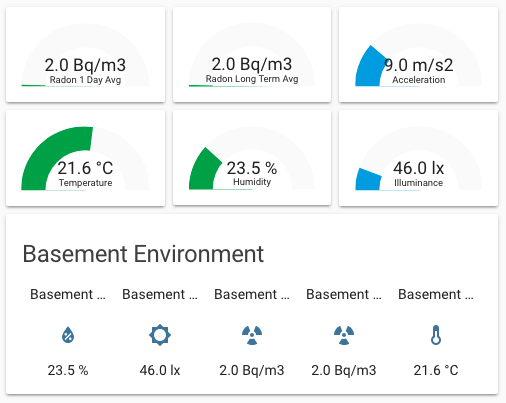
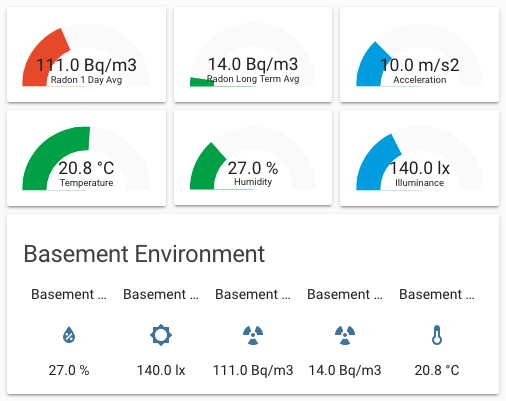
Resolves #10
- Removed unessessary while loop and increased SCAN_INTERVAL from 60 seconds to 300

- Updated screen shots and doc

diff --git a/custom_components/airthings_wave/sensor.py b/custom_components/airthings_wave/sensor.py
@@ -40,7 +40,7 @@ _LOGGER = logging.getLogger(__name__)
 DEFAULT_NAME = 'Airthings Wave'
 CONNECT_LOCK = threading.Lock()
 CONNECT_TIMEOUT = 30
-SCAN_INTERVAL = timedelta(seconds=60)
+SCAN_INTERVAL = timedelta(seconds=300)
 
 ATTR_DEVICE_DATE_TIME = 'device_date_time'
 ATTR_RADON_LEVEL = 'radon_level'
@@ -54,10 +54,25 @@ VOLUME_PICOCURIE = 'pCi/L'
 
 BQ_TO_PCI_MULTIPLIER = 0.037
 
-VERY_LOW = 'very low'
-LOW = 'low'
-MODERATE = 'moderate'
-HIGH = 'high'
+"""
+0 - 49 Bq/m3  (0 - 1.3 pCi/L):
+No action necessary.
+
+50 - 99 Bq/m3 (1.4 - 2.6 pCi/L):
+Experiment with ventilation and sealing cracks to reduce levels.
+
+100 Bq/m3 - 299 Bq/m3 (2.7 - 8 pCi/L):
+Keep measuring. If levels are maintained for more than 3 months,
+contact a professional radon mitigator.
+
+300 Bq/m3 (8.1 pCi/L) and up:
+Keep measuring. If levels are maintained for more than 1 month,
+contact a professional radon mitigator.
+"""
+VERY_LOW = [0, 49, 'very low']
+LOW = [50, 99, 'low']
+MODERATE = [100, 299, 'moderate']
+HIGH = [300, None, 'high']
 
 CHAR_UUID_DATETIME = UUID(0x2A08)
 CHAR_UUID_TEMPERATURE = UUID(0x2A6E)
@@ -235,31 +250,15 @@ class AirthingsRadon(Entity):
     def device_state_attributes(self):
         """Return the state attributes of the sensor."""
 
-        """
-        0 - 49 Bq/m3  (0 - 1.3 pCi/L):
-        No action necessary.
-
-        49 - 99 Bq/m3 (1.4 - 2.6 pCi/L):
-        Experiment with ventilation and sealing cracks to reduce levels.
-
-        100 Bq/m3 - 299 Bq/m3 (2.7 - 8 pCi/L):
-        Keep measuring. If levels are maintained for more than 3 months,
-        contact a professional radon mitigator.
-
-        300 Bq/m3 (8.1 pCi/L) and up:
-        Keep measuring. If levels are maintained for more than 1 month,
-        contact a professional radon mitigator.
-        """
-
         try:
-            if 0 <= float(self.mon.data[self._subclass]) <= 49:
-                self.radon_level = VERY_LOW
-            elif 50 <= float(self.mon.data[self._subclass]) <= 99:
-                self.radon_level = LOW
-            elif 100 <= float(self.mon.data[self._subclass]) <= 299:
-                self.radon_level = MODERATE
+            if VERY_LOW[0] <= float(self.mon.data[self._subclass]) <= VERY_LOW[1]:
+                self.radon_level = VERY_LOW[2]
+            elif LOW[0] <= float(self.mon.data[self._subclass]) <= LOW[1]:
+                self.radon_level = LOW[2]
+            elif MODERATE[0] <= float(self.mon.data[self._subclass]) <= MODERATE[1]:
+                self.radon_level = MODERATE[2]
             else:
-                self.radon_level = HIGH
+                self.radon_level = HIGH[2]
         except Exception as ex:
             _LOGGER.warn("Radon level is : got an exception: %s", ex)
             self.radon_level = STATE_UNKNOWN
@@ -361,39 +360,38 @@ class Monitor(threading.Thread):
             BLEError, NotConnectedError, NotificationTimeout)
 
         adapter = pygatt.backends.GATTToolBackend()
-
-        while True:
-            try:
+        try:
+            while self.keep_going:
                 _LOGGER.debug("Connecting to %s", self.name)
+
                 # We need concurrent connect, so lets not reset the device
                 adapter.start(reset_on_start=False)
-                # Seems only one connection can be initiated at a time
-                with CONNECT_LOCK:
-                    device = adapter.connect(self.mac, CONNECT_TIMEOUT)
+                device = adapter.connect(self.mac, CONNECT_TIMEOUT)
 
-                # Magic: writing this makes device happy
-                device.char_write_handle(0x1b, bytearray([255]), False)
-                while self.keep_going:
-                    for s in sensors:
-                        val = struct.unpack(s.format_type,
-                            device.char_read(s.uuid, timeout=CONNECT_TIMEOUT))
-                        _LOGGER.debug("Sensor %s: %s", s.name, val)
-                        if s.name == 'date_time':
-                            val = str(datetime(val[0], val[1], val[2], val[3],
-                                val[4], val[5]).isoformat())
-                            self.data[s.name] = val
-                        elif s.name == 'illuminance_accelerometer':
-                            self.data['illuminance'] = str(val[0] * s.scale)
-                            self.data['accelerometer'] = str(val[1] * s.scale)
-                        else:
-                            self.data[s.name] = str(round(val[0] * s.scale, 1))
+                # Give the adaptor a breather
+                self.event.wait(1)
+                for s in sensors:
+                    val = struct.unpack(s.format_type,
+                        device.char_read(s.uuid, timeout=CONNECT_TIMEOUT))
+                    _LOGGER.debug("Sensor %s: %s", s.name, val)
 
-                    self.event.wait(self.scan_interval.total_seconds())
-                break
-            except (BLEError, NotConnectedError, NotificationTimeout) as ex:
-                _LOGGER.error("Exception: %s ", str(ex))
-            finally:
+                    if s.name == 'date_time':
+                        val = str(datetime(val[0], val[1], val[2], val[3],
+                            val[4], val[5]).isoformat())
+                        self.data[s.name] = val
+                    elif s.name == 'illuminance_accelerometer':
+                        self.data['illuminance'] = str(val[0] * s.scale)
+                        self.data['accelerometer'] = str(val[1] * s.scale)
+                    else:
+                        self.data[s.name] = str(round(val[0] * s.scale, 1))
+
                 adapter.stop()
+                self.event.wait(self.scan_interval.total_seconds())
+
+        except (BLEError, NotConnectedError, NotificationTimeout) as ex:
+            _LOGGER.error("Exception: %s ", str(ex))
+        finally:
+            adapter.stop()
 
     def terminate(self):
         """Signal runner to stop and join thread."""

diff --git a/README.md b/README.md
@@ -56,7 +56,7 @@ sensor:
 
 **scan_interval**
 
-  (string)(Optional) The interval between polls. Defaults to 1 minute
+  (string)(Optional) The interval between polls. Defaults to 300 seconds (5 minutes)
 
 ## Limitations
 
@@ -73,12 +73,11 @@ first.
 
 ## Known Issues
 
+* Note yet compatible with Airthings Wave Plus
+
 * Values only appear after first scan_interval (default 1 minute) has passed
 and will remain as `unknown` until then
 https://github.com/custom-components/sensor.airthings_wave/issues/2
-
-* Component keeps a persistent connection thread to the BLE dongle which may
-block phone app from connecting to the AW device
 
 * Not yet compatible with
 [custom_updater](https://github.com/custom-components/custom_updater) and

diff --git a/CHANGELOG.md b/CHANGELOG.md
@@ -2,6 +2,11 @@
 
 ## v0.2.0 (2019-03-29)
 
+- Fixed low-frequency updates
+- Changed default updates to be from 1 minute to 5 minutes
+
+## v0.2.0 (2019-03-29)
+
 - Added support for Pico Curie 'pCi/L' imperial units
 
 ## v0.1.0 (2019-03-27)
